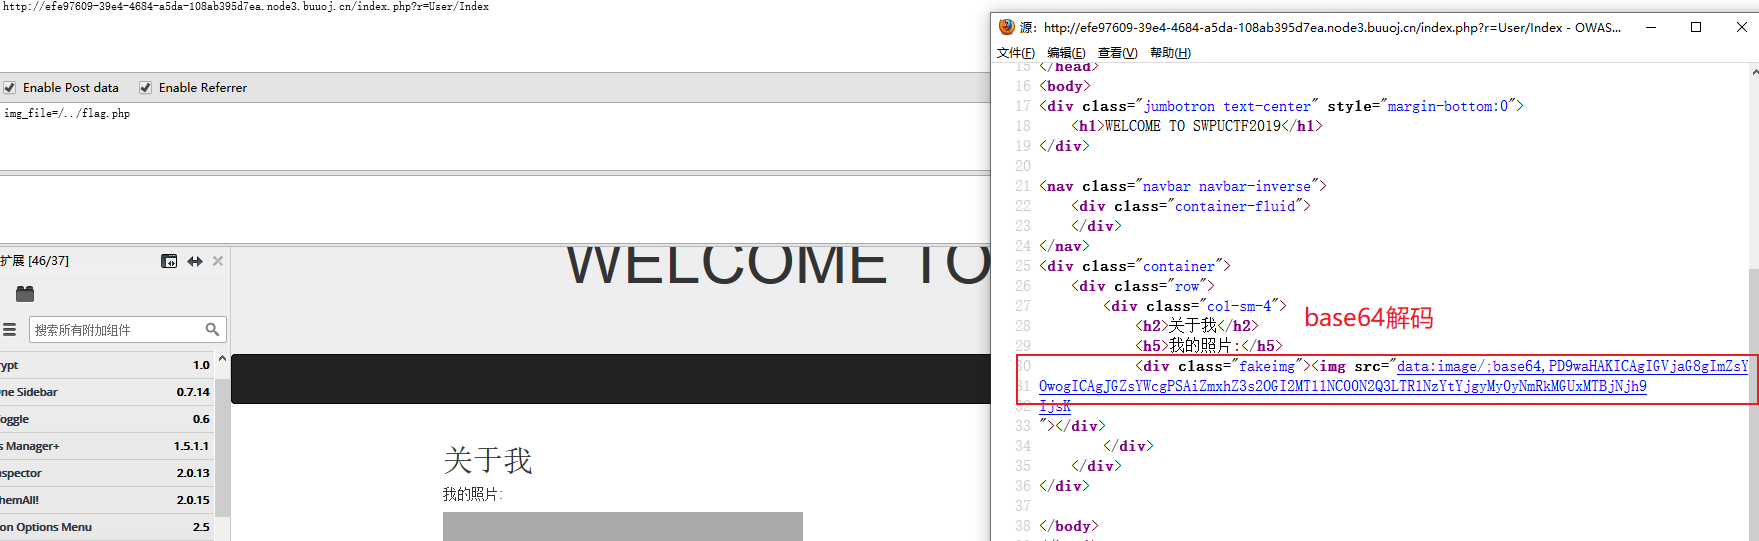
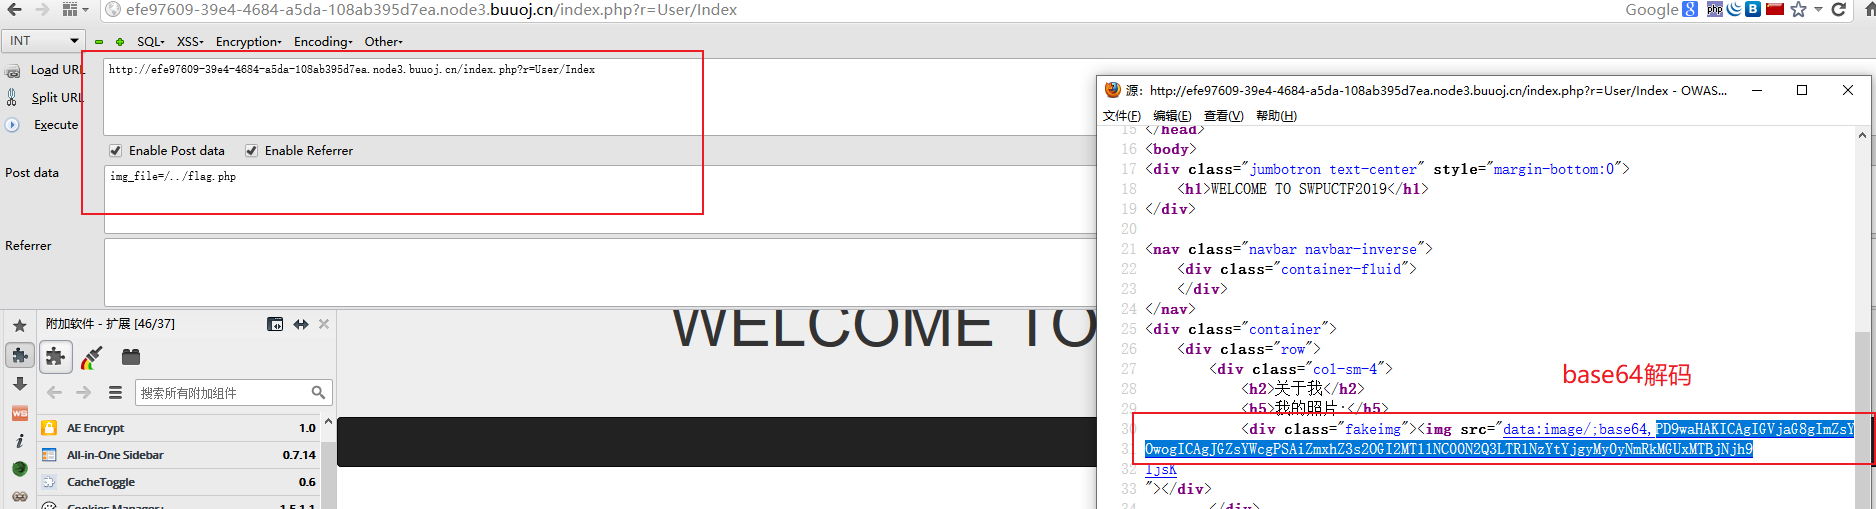
Site updated: 2021-04-15 04:04:02

diff --git a/2021/04/14/SWPU2019-Web4/index.html b/2021/04/14/SWPU2019-Web4/index.html
@@ -32,10 +32,10 @@
 <meta property="og:image" content="https://4chan123.github.io/2021/04/14/SWPU2019-Web4/0.png">
 <meta property="og:image" content="https://4chan123.github.io/2021/04/14/SWPU2019-Web4/1.png">
 <meta property="og:image" content="https://4chan123.github.io/2021/04/14/SWPU2019-Web4/2.png">
-<meta property="og:image" content="https://4chan123.github.io/2021/04/14/SWPU2019-Web4/3.png">
+<meta property="og:image" content="https://4chan123.github.io/2021/04/14/SWPU2019-Web4/3-1618488205319.png">
 <meta property="og:image" content="https://4chan123.github.io/2021/04/14/SWPU2019-Web4/4.png">
 <meta property="article:published_time" content="2021-04-14T16:06:52.000Z">
-<meta property="article:modified_time" content="2021-04-15T11:51:20.404Z">
+<meta property="article:modified_time" content="2021-04-15T12:03:36.973Z">
 <meta property="article:author" content="4Chan">
 <meta property="article:tag" content="CTF">
 <meta property="article:tag" content="堆叠注入">
@@ -241,7 +241,7 @@
               <span class="post-meta-item-text">发表于</span>
               
 
-              <time title="创建时间：2021-04-15 00:06:52 / 修改时间：19:51:20" itemprop="dateCreated datePublished" datetime="2021-04-15T00:06:52+08:00">2021-04-15</time>
+              <time title="创建时间：2021-04-15 00:06:52 / 修改时间：20:03:36" itemprop="dateCreated datePublished" datetime="2021-04-15T00:06:52+08:00">2021-04-15</time>
             </span>
             <span class="post-meta-item">
               <span class="post-meta-item-icon">
@@ -342,7 +342,7 @@
 <h2 id="0x05-我们构造playload为"><strong>0x05 我们构造playload为</strong></h2>
 <p>GET: <strong><code>index.php?r=User/Index</code></strong></p>
 <p>POST: <strong><code>img_file=/../flag.php</code></strong></p>
-<p><img src="/2021/04/14/SWPU2019-Web4/3.png" alt="3"></p>
+<p><img src="/2021/04/14/SWPU2019-Web4/3-1618488205319.png" alt="3"></p>
 <p><img src="/2021/04/14/SWPU2019-Web4/4.png" alt="4"></p>
 <figure class="highlight plain"><table><tr><td class="gutter"><pre><span class="line">1</span><br></pre></td><td class="code"><pre><span class="line">flag&#123;68b619e4-47d7-4e76-b823-26dd0e110c68&#125;</span><br></pre></td></tr></table></figure>
 

diff --git a/index.html b/index.html
@@ -229,7 +229,7 @@
               <span class="post-meta-item-text">发表于</span>
               
 
-              <time title="创建时间：2021-04-15 00:06:52 / 修改时间：19:51:20" itemprop="dateCreated datePublished" datetime="2021-04-15T00:06:52+08:00">2021-04-15</time>
+              <time title="创建时间：2021-04-15 00:06:52 / 修改时间：20:03:36" itemprop="dateCreated datePublished" datetime="2021-04-15T00:06:52+08:00">2021-04-15</time>
             </span>
             <span class="post-meta-item">
               <span class="post-meta-item-icon">
@@ -323,7 +323,7 @@
 <h2 id="0x05-我们构造playload为"><strong>0x05 我们构造playload为</strong></h2>
 <p>GET: <strong><code>index.php?r=User/Index</code></strong></p>
 <p>POST: <strong><code>img_file=/../flag.php</code></strong></p>
-<p><img src="/2021/04/14/SWPU2019-Web4/3.png" alt="3"></p>
+<p><img src="/2021/04/14/SWPU2019-Web4/3-1618488205319.png" alt="3"></p>
 <p><img src="/2021/04/14/SWPU2019-Web4/4.png" alt="4"></p>
 <figure class="highlight plain"><table><tr><td class="gutter"><pre><span class="line">1</span><br></pre></td><td class="code"><pre><span class="line">flag&#123;68b619e4-47d7-4e76-b823-26dd0e110c68&#125;</span><br></pre></td></tr></table></figure>
 

diff --git a/css/main.css b/css/main.css
@@ -1174,7 +1174,7 @@ pre .javascript .function {
 }
 .links-of-author a::before,
 .links-of-author span.exturl::before {
-  background: #458fed;
+  background: #9dff5d;
   border-radius: 50%;
   content: ' ';
   display: inline-block;
